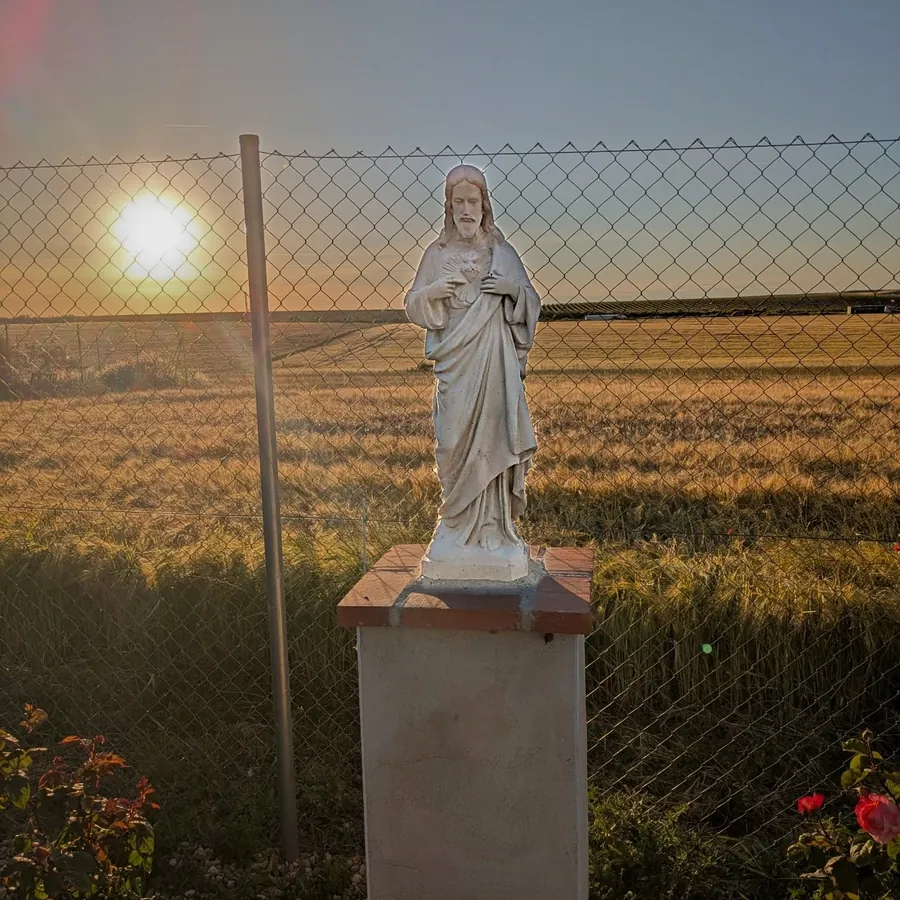
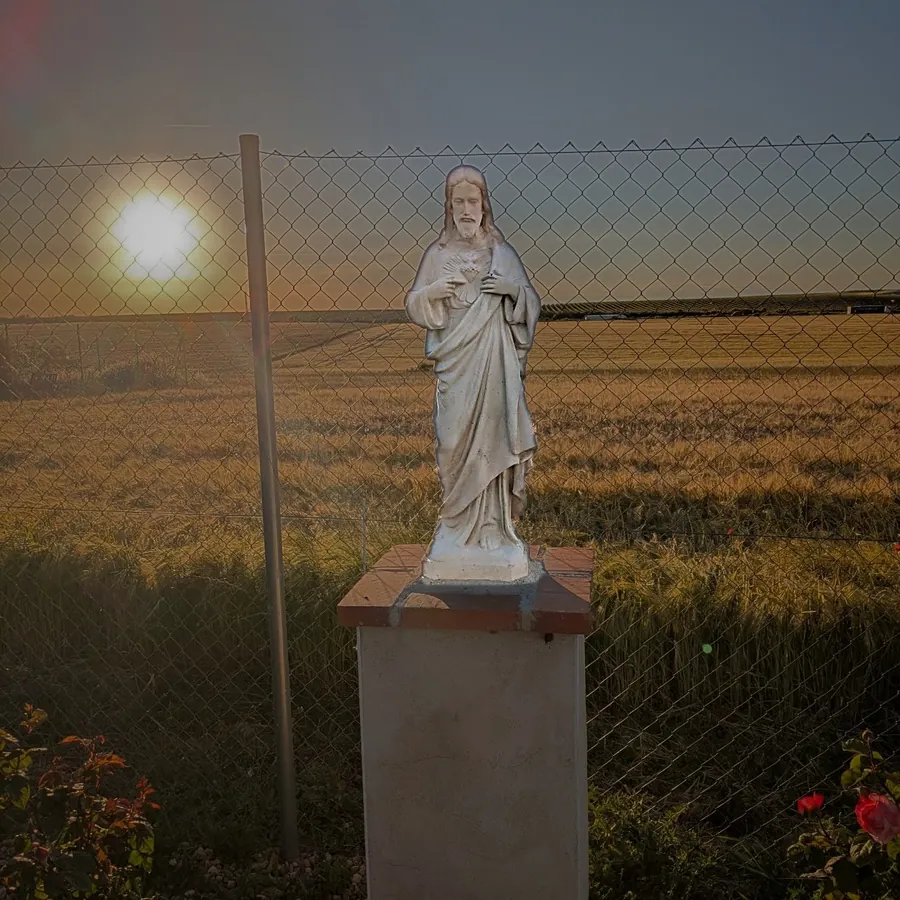
Sagrado Corazón: fondo más apagado
Claude-Session: https://claude.ai/code/session_01CUYjSQBrTt6S214k245qsV

diff --git a/en/index.html b/en/index.html
@@ -434,7 +434,7 @@ textarea{min-height:9rem;resize:vertical}
         <figure><img src="../fotos/paseo-burro-480.webp" srcset="../fotos/paseo-burro-480.webp 480w, ../fotos/paseo-burro-900.webp 900w" sizes="(max-width:880px) 50vw, 260px" width="900" height="900" loading="lazy" decoding="async" alt="Children riding the donkey across a stubble field, with adults walking alongside"><figcaption>Donkey rides for the youngest</figcaption></figure>
         <figure><img src="../fotos/capilla-perros-480.webp" srcset="../fotos/capilla-perros-480.webp 480w, ../fotos/capilla-perros-900.webp 900w" sizes="(max-width:880px) 50vw, 260px" width="900" height="900" loading="lazy" decoding="async" alt="A small white chapel with a bell gable; in front, the dogs rest on bales of straw"><figcaption>The chapel, under the dogs’ watch</figcaption></figure>
         <figure><img src="../fotos/capilla-interior-480.webp" srcset="../fotos/capilla-interior-480.webp 480w, ../fotos/capilla-interior-900.webp 900w" sizes="(max-width:880px) 50vw, 260px" width="900" height="900" loading="lazy" decoding="async" alt="The simple interior of the chapel, with an altar, a crucifix and two statues; a man sits reading on a bench"><figcaption>A time of prayer and silence in the hermitage chapel</figcaption></figure>
-        <figure><img src="../fotos/sagrado-corazon-480.webp?v=3" srcset="../fotos/sagrado-corazon-480.webp?v=3 480w, ../fotos/sagrado-corazon-900.webp?v=3 900w" sizes="(max-width:880px) 50vw, 260px" width="900" height="900" loading="lazy" decoding="async" alt="A statue of the Sacred Heart on a pedestal, facing a cereal field with the sun low"><figcaption>The Sacred Heart, facing the fields</figcaption></figure>
+        <figure><img src="../fotos/sagrado-corazon-480.webp?v=4" srcset="../fotos/sagrado-corazon-480.webp?v=4 480w, ../fotos/sagrado-corazon-900.webp?v=4 900w" sizes="(max-width:880px) 50vw, 260px" width="900" height="900" loading="lazy" decoding="async" alt="A statue of the Sacred Heart on a pedestal, facing a cereal field with the sun low"><figcaption>The Sacred Heart, facing the fields</figcaption></figure>
         <figure><img src="../fotos/cruz-piedra-480.webp" srcset="../fotos/cruz-piedra-480.webp 480w, ../fotos/cruz-piedra-900.webp 900w" sizes="(max-width:880px) 50vw, 260px" width="900" height="900" loading="lazy" decoding="async" alt="A lichen-covered stone cross among flowering broom and poppies, under a cloudy sky"><figcaption>Stone cross</figcaption></figure>
         <figure><img src="../fotos/atardecer-480.webp" srcset="../fotos/atardecer-480.webp 480w, ../fotos/atardecer-900.webp 900w" sizes="(max-width:880px) 50vw, 260px" width="900" height="900" loading="lazy" decoding="async" alt="A wooden hut with a cross on its roof and a tall cross in the field, at sunset"><figcaption>As evening falls</figcaption></figure>
       </div>

diff --git a/index.html b/index.html
@@ -434,7 +434,7 @@ textarea{min-height:9rem;resize:vertical}
         <figure><img src="fotos/paseo-burro-480.webp" srcset="fotos/paseo-burro-480.webp 480w, fotos/paseo-burro-900.webp 900w" sizes="(max-width:880px) 50vw, 260px" width="900" height="900" loading="lazy" decoding="async" alt="Niños a lomos del burro en un rastrojo, acompañados por adultos"><figcaption>Paseo en burro con los más pequeños</figcaption></figure>
         <figure><img src="fotos/capilla-perros-480.webp" srcset="fotos/capilla-perros-480.webp 480w, fotos/capilla-perros-900.webp 900w" sizes="(max-width:880px) 50vw, 260px" width="900" height="900" loading="lazy" decoding="async" alt="Pequeña capilla blanca con espadaña y campana; delante, los perros descansan sobre unas balas de paja"><figcaption>La capilla, bajo la guardia de los perros</figcaption></figure>
         <figure><img src="fotos/capilla-interior-480.webp" srcset="fotos/capilla-interior-480.webp 480w, fotos/capilla-interior-900.webp 900w" sizes="(max-width:880px) 50vw, 260px" width="900" height="900" loading="lazy" decoding="async" alt="Interior sencillo de la capilla, con altar, crucifijo y dos imágenes; un hombre lee sentado en un banco"><figcaption>Un rato de oración y silencio en la ermita</figcaption></figure>
-        <figure><img src="fotos/sagrado-corazon-480.webp?v=3" srcset="fotos/sagrado-corazon-480.webp?v=3 480w, fotos/sagrado-corazon-900.webp?v=3 900w" sizes="(max-width:880px) 50vw, 260px" width="900" height="900" loading="lazy" decoding="async" alt="Imagen del Sagrado Corazón sobre un pedestal, ante un campo de cereal con el sol bajo"><figcaption>El Sagrado Corazón, frente a los campos</figcaption></figure>
+        <figure><img src="fotos/sagrado-corazon-480.webp?v=4" srcset="fotos/sagrado-corazon-480.webp?v=4 480w, fotos/sagrado-corazon-900.webp?v=4 900w" sizes="(max-width:880px) 50vw, 260px" width="900" height="900" loading="lazy" decoding="async" alt="Imagen del Sagrado Corazón sobre un pedestal, ante un campo de cereal con el sol bajo"><figcaption>El Sagrado Corazón, frente a los campos</figcaption></figure>
         <figure><img src="fotos/cruz-piedra-480.webp" srcset="fotos/cruz-piedra-480.webp 480w, fotos/cruz-piedra-900.webp 900w" sizes="(max-width:880px) 50vw, 260px" width="900" height="900" loading="lazy" decoding="async" alt="Cruz de piedra cubierta de líquenes entre retamas en flor y amapolas, bajo un cielo nublado"><figcaption>Cruz de piedra</figcaption></figure>
         <figure><img src="fotos/atardecer-480.webp" srcset="fotos/atardecer-480.webp 480w, fotos/atardecer-900.webp 900w" sizes="(max-width:880px) 50vw, 260px" width="900" height="900" loading="lazy" decoding="async" alt="Caseta de madera con una cruz en el tejado y una gran cruz en el campo, al atardecer"><figcaption>Al caer la tarde</figcaption></figure>
       </div>
